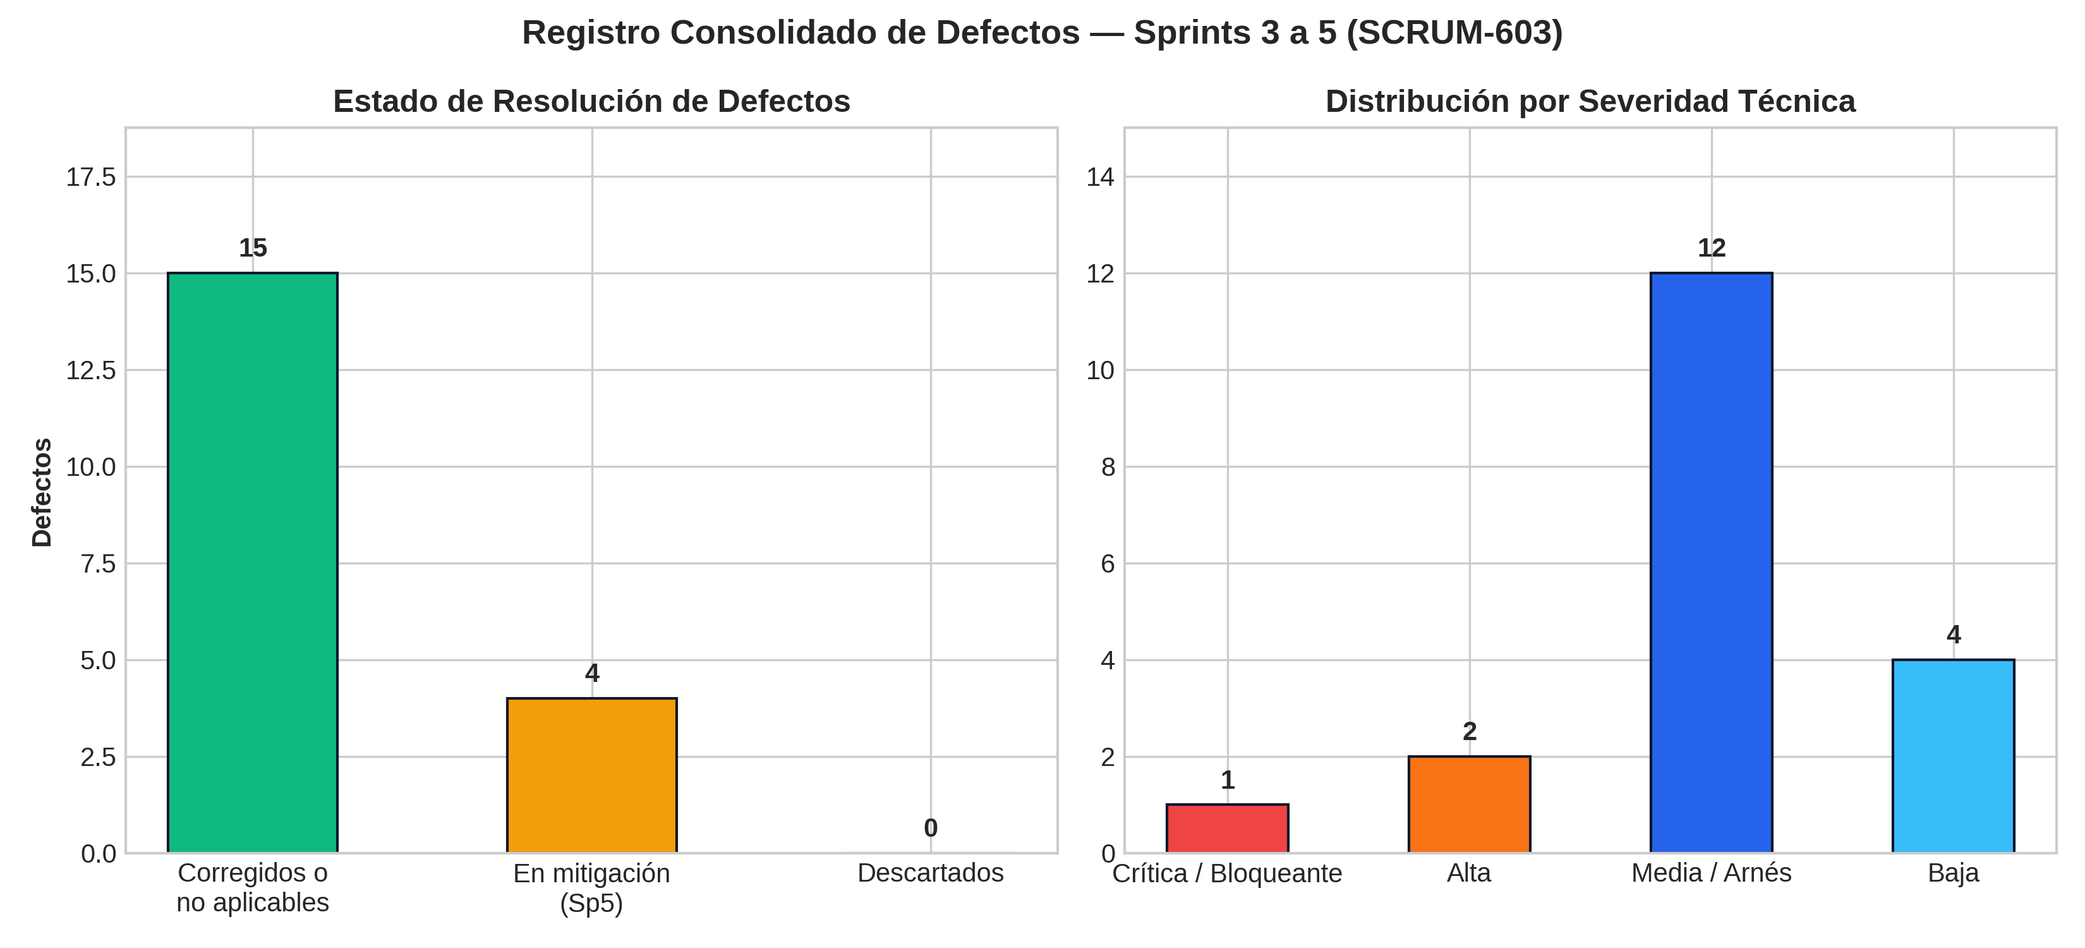
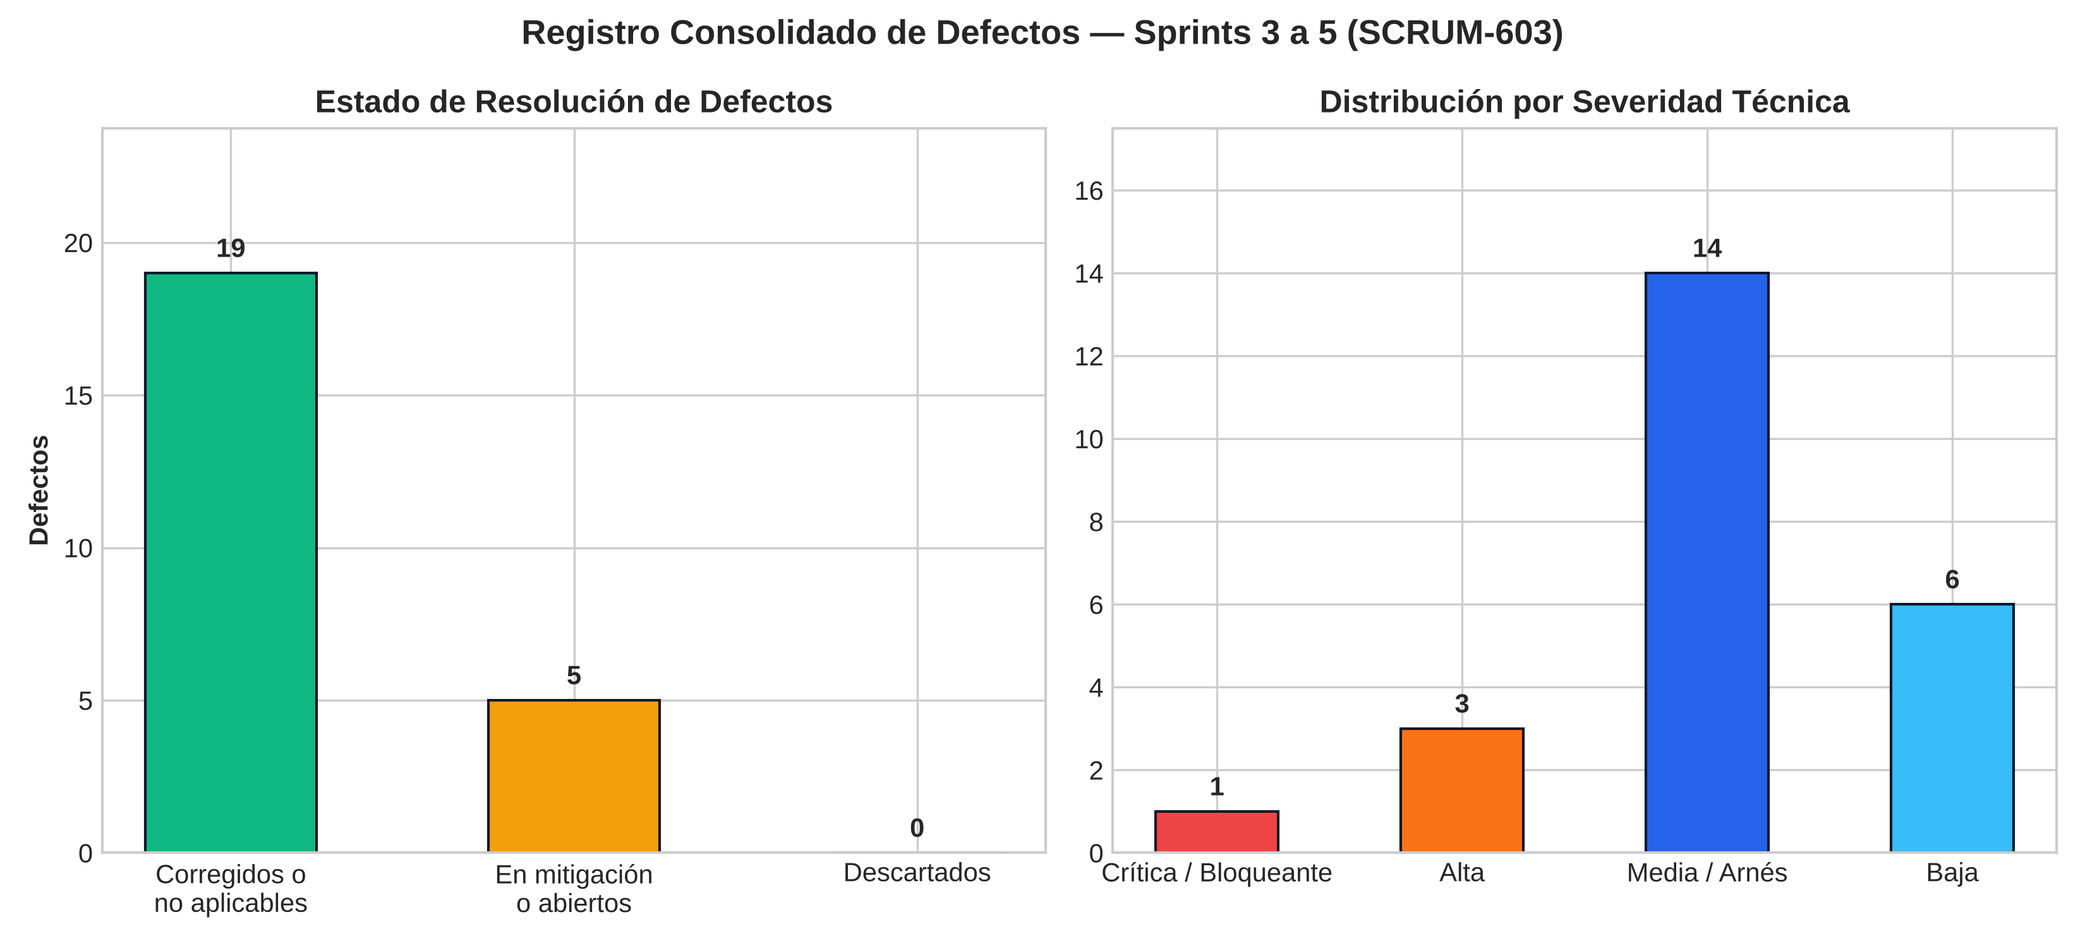
docs(qa): registro de defectos completo con los hallazgos del Sprint 5 (24 defectos)

diff --git a/scripts/generar_estadisticas_qa.py b/scripts/generar_estadisticas_qa.py
@@ -456,11 +456,11 @@ def generate_charts(ci_data, e2e_data, sec_data, defects, cov_map):
     # GRÁFICA 3: Defectos por Estado y Severidad
     corr = sum(1 for d in defects if any(k in d['estado'] for k in ['Corregido', 'Resuelto', 'Verificado']))
     no_aplica = sum(1 for d in defects if 'No aplica' in d['estado'])
-    pend = sum(1 for d in defects if any(k in d['estado'] for k in ['Pendiente', 'En corrección', 'En mitigación']))
+    pend = sum(1 for d in defects if any(k in d['estado'] for k in ['Pendiente', 'En corrección', 'En mitigación', 'Abierto']))
     desc = sum(1 for d in defects if any(k in d['estado'] for k in ['Descartado', 'Inválido']))
 
     fig, (ax1, ax2) = plt.subplots(1, 2, figsize=(11, 5))
-    states = ['Corregidos o\nno aplicables', 'En mitigación\n(Sp5)', 'Descartados']
+    states = ['Corregidos o\nno aplicables', 'En mitigación\no abiertos', 'Descartados']
     s_counts = [corr + no_aplica, pend, desc]
     s_colors = [success, warning, '#94A3B8']
 
@@ -542,8 +542,8 @@ def generate_markdown(ci_data, e2e_data, sec_data, k6_data, defects, cov_map):
     md = []
     md.append("# Cuadro de Mando de Estadísticas de Pruebas — Sprint 5 (SCRUM-604)\n")
     md.append("**Código del Documento:** `MET-QA-SP5-2026-11-02`  ")
-    md.append("**Versión:** `2.3 (indicadores desde las fuentes únicas, SCRUM-701 y SCRUM-695)`  ")
-    md.append("**Fecha de Generación:** 2 de noviembre de 2026 (versión 2.3: 12 de noviembre de 2026)  ")
+    md.append("**Versión:** `2.4 (registro de defectos completo: 24)`  ")
+    md.append("**Fecha de Generación:** 2 de noviembre de 2026 (versión 2.3: 12 de noviembre de 2026; versión 2.4: 13 de noviembre de 2026)  ")
     md.append("**Responsable:** Katherine Bravo (`ka.bravo@javeriana.edu.co`) — QA Lead  ")
     md.append("**Trazabilidad Jira:** Tarea `SCRUM-604` | Requisito RNF-08 | Documento de Pruebas `TD.md` V3.0  ")
     md.append("**Principio Metodológico:** Toda cifra reportada proviene directamente de archivos de resultados de CI (.trx/surefire), evidencias Newman en QA, resúmenes JSON de k6 y la Matriz de Avance UAT en Excel. Cero cifras escritas a mano.\n")
@@ -615,14 +615,17 @@ def generate_markdown(ci_data, e2e_data, sec_data, k6_data, defects, cov_map):
     md.append("## 4. Registro Consolidado de Defectos (SCRUM-603)\n")
     corr = sum(1 for d in defects if any(k in d['estado'] for k in ['Corregido', 'Resuelto', 'Verificado']))
     no_aplica = sum(1 for d in defects if 'No aplica' in d['estado'])
-    pend = sum(1 for d in defects if any(k in d['estado'] for k in ['Pendiente', 'En corrección', 'En mitigación']))
+    pend = sum(1 for d in defects if any(k in d['estado'] for k in ['Pendiente', 'En corrección', 'En mitigación', 'Abierto']))
     desc = sum(1 for d in defects if any(k in d['estado'] for k in ['Descartado', 'Inválido']))
     tot_def = len(defects)
 
     md.append(f"* **Total de Defectos Registrados:** **{tot_def} anomalías**.")
     md.append(f"* **Defectos Corregidos o No aplicables:** **{corr + no_aplica} ({(corr + no_aplica)/tot_def*100:.1f}%)** ({corr} corregidos y verificados + {no_aplica} no aplica a producción: DEF-S4-03).")
     md.append(f"* **Defectos Descartados / Retractados:** **{desc} ({desc/tot_def*100:.1f}%)**.")
-    md.append(f"* **Defectos en Mitigación en Sprint 5:** **{pend} ({pend/tot_def*100:.1f}%)** (ninguno bloqueante: DEF-S5-01 a DEF-S5-04).")
+    abiertos = [d['id'] for d in defects if 'Abierto' in d['estado']]
+    mitig = pend - len(abiertos)
+    det = f"{mitig} en mitigación: DEF-S5-01 a DEF-S5-04" + (f"; {len(abiertos)} abierto: {', '.join(abiertos)}" if abiertos else "")
+    md.append(f"* **Defectos en Mitigación o Abiertos:** **{pend} ({pend/tot_def*100:.1f}%)** (ninguno bloqueante; {det}).")
     md.append(f"* **Defectos Críticos o Bloqueantes Abiertos:** **0 (0.0%)**.\n")
     md.append("Ver detalle exhaustivo en: [`registro-defectos-sprint4-sprint5.md`](registro-defectos-sprint4-sprint5.md) y en la hoja `Defectos` de la Matriz UAT Excel.\n")
     md.append("---\n")

diff --git a/docs/testing/informe-pruebas-sprint5.md b/docs/testing/informe-pruebas-sprint5.md
@@ -1,8 +1,8 @@
 # Informe Consolidado de Pruebas — Sprint 5 (SCRUM-524 / SCRUM-528)
 
 **Código del Documento:** `INF-QA-SP5-2026-11-04`  
-**Versión:** `1.3 (cifras conciliadas con las fuentes únicas, SCRUM-701)`  
-**Fecha de Emisión:** 4 de noviembre de 2026 (versiones 1.1 y 1.2: 5 de noviembre de 2026; versión 1.3: 12 de noviembre de 2026)  
+**Versión:** `1.4 (registro de defectos completo: 24)`  
+**Fecha de Emisión:** 4 de noviembre de 2026 (versiones 1.1 y 1.2: 5 de noviembre de 2026; versión 1.3: 12 de noviembre de 2026; versión 1.4: 13 de noviembre de 2026)  
 **Responsable:** Katherine Bravo (`ka.bravo@javeriana.edu.co`) — QA Lead  
 **Trazabilidad Jira:** Historia Padre `SCRUM-524` | Subtareas `SCRUM-525`, `SCRUM-526`, `SCRUM-527`, `SCRUM-528`  
 **Referencias:** SRS V5.11 / SAD V4 / DD V5.19 / TD V3.3 / ADR-015 / ADR-022 / ADR-023 / RNF-08  
@@ -37,7 +37,7 @@
 - **PCI-DSS:** 4 corridas en el sprint, cada una con 5000 líneas de Loki revisadas y 0 hallazgos (SCRUM-527).
 - **k6, 5 de noviembre (noche del 4 en Colombia):** con 50 usuarios, crear solicitud p95 de 88 ms y catálogo p95 de 32 ms, con 0,01 % de peticiones fallidas. Con 150 usuarios, 0 errores 5xx y p95 de 1.183 ms, con 0,03 % de peticiones fallidas. Con esta corrida no queda ninguna excepción al RNF-08 vigente (SCRUM-526).
 - **ZAP:** el escaneo base terminó con 0 FAIL en todas las corridas del sprint. Las 4 advertencias son de cabeceras en QA y están conocidas (DEF-S4-03).
-- **Defectos:** 19 registrados entre los Sprints 3 y 5 (14 corregidos, 1 no aplica a producción, 4 en mitigación); 0 bloqueantes abiertos. En este sprint se encontró y se corrigió además el defecto del puntaje como texto en ServiceRequest (SCRUM-87).
+- **Defectos:** 24 registrados entre los Sprints 3 y 5 (18 corregidos, 1 no aplica a producción, 4 en mitigación y 1 abierto de severidad Baja); 0 bloqueantes abiertos. Incluye los hallazgos del Sprint 5 que estaban fuera del registro: el puntaje como texto en ServiceRequest (SCRUM-87), el apagado de QuoteExpirer y DEF-INT-01 a DEF-INT-03.
 
 ### 1.2 Cuadro de Mando de Compuertas
 
@@ -78,7 +78,7 @@ Corte del 12 de noviembre de 2026. Los indicadores funcionales salen de [`indica
 ![Gráfica 2: Tasa de éxito de las pruebas](img/grafica-2-torta-exito-pruebas.png)
 
 #### Gráfica 3: Estado y severidad de los defectos
-19 defectos registrados entre los Sprints 3 y 5: 15 corregidos o no aplicables, 4 en mitigación y 0 bloqueantes abiertos.
+24 defectos registrados entre los Sprints 3 y 5: 19 corregidos o no aplicables, 4 en mitigación, 1 abierto (Baja) y 0 bloqueantes abiertos.
 
 ![Gráfica 3: Estado y severidad de los defectos](img/grafica-3-barras-defectos.png)
 
@@ -267,19 +267,21 @@ Fuentes: hoja `Defectos` de [`docs/testing/Matriz_UAT_Avance_QuickPatch.xlsx`](M
 |---|---|---|
 | Corregidos y verificados (Sprint 3) | 4 | BUG-001 a BUG-004 |
 | Corregidos y verificados (Sprint 4) | 10 | BUG-SP4-001 a BUG-SP4-009, DEF-S4-02 |
+| Corregidos y verificados (Sprint 5) | 4 | HAL-S5-01, HAL-S5-02, DEF-INT-01 y DEF-INT-02 |
 | No aplica a producción | 1 | DEF-S4-03 (HSTS y nosniff solo en QA) |
 | En mitigación, no bloqueantes | 4 | DEF-S5-01 a DEF-S5-04 |
-| **Total** | **19** | 0 bloqueantes abiertos (15 de ellos en el registro de los Sprints 4 y 5) |
+| Abierto, no bloqueante | 1 | DEF-INT-03 (Baja: perfil de gama baja, depende de SCRUM-667) |
+| **Total** | **24** | 0 bloqueantes abiertos (20 de ellos en el registro de los Sprints 4 y 5) |
 
-### 4.2 Hallazgos del Sprint 5 fuera del registro
+### 4.2 Hallazgos del Sprint 5 que se sumaron al registro
 
 | Hallazgo | Dónde se encontró | Estado |
 |---|---|---|
-| ServiceRequest aceptaba `{"score":"5"}` (texto) con 201, aunque el contrato pide `integer` | Colección `scrum-32-calificacion` contra QA, 4 de noviembre (SCRUM-87) | Corregido en quickpatch-service-request#39 (`release/0.11.2`). La corrida quedó sin fallos |
-| ServiceRequest se apagaba por un `TaskCanceledException` sin capturar en QuoteExpirer | Primer intento del humo en producción, 4 de noviembre (SCRUM-523) | Corregido en service-request 0.11.1. Lectura repetida 14/14 |
-| DEF-INT-01 (faltaba la pantalla de calificación), DEF-INT-02 (arnés de accesibilidad) y DEF-INT-03 (perfil de gama baja) | SCRUM-569 | DEF-INT-01 cerrado con SCRUM-86; DEF-INT-02 y DEF-INT-03 abiertos. Registrados en el PR #254 |
+| HAL-S5-01: ServiceRequest aceptaba `{"score":"5"}` (texto) con 201, aunque el contrato pide `integer` | Colección `scrum-32-calificacion` contra QA, 4 de noviembre (SCRUM-87) | Corregido en quickpatch-service-request#39 (`release/0.11.2`). La corrida quedó sin fallos |
+| HAL-S5-02: ServiceRequest se apagaba por un `TaskCanceledException` sin capturar en QuoteExpirer | Primer intento del humo en producción, 4 de noviembre (SCRUM-523) | Corregido en service-request 0.11.1. Lectura repetida 14/14 |
+| DEF-INT-01 (faltaba la pantalla de calificación), DEF-INT-02 (arnés de accesibilidad) y DEF-INT-03 (perfil de gama baja) | SCRUM-569 | DEF-INT-01 cerrado con SCRUM-86 y DEF-INT-02 con quickpatch-mobile#58. DEF-INT-03 sigue abierto |
 
-Estos hallazgos se suman al registro de defectos cuando se fusione el PR #254.
+Desde el 13 de noviembre están en `registro-defectos-sprint4-sprint5.md` (v2.1) y en la hoja `Defectos` de `Matriz_UAT_Avance_QuickPatch.xlsx`, igual que en la hoja `Defectos` del Informe UAT oficial de la PO.
 
 ### 4.3 Defectos en mitigación
 
@@ -299,7 +301,7 @@ Estos hallazgos se suman al registro de defectos cuando se fusione el PR #254.
 3. **SCRUM-608:** hecho. La Product Owner aceptó el incremento en el Informe UAT oficial del 5 de noviembre, y el acta quedó en `develop` con el PR #272. AC4-E3, AC4-E4 y AC4-E9 siguen sin medir con personas; se miden en la UAT de cierre (SCRUM-658).
 4. **SCRUM-569:** con el PR #254, la matriz de 52 escenarios queda alineada con esta evaluación (AC4-E2, AC4-E5, AC4-E6 y AC4-E9), y el porcentaje de escenarios pasa de 49.04% a 51.92%.
 5. **SCRUM-566 y SCRUM-664:** la matriz de 52 escenarios es la fuente única de los escenarios. Al 12 de noviembre da 75.00% (35 Cumple, 8 Parcial, 3 No cumple y 6 No medido), y `scripts/calcular_indicadores_qa.py` la recalcula.
-6. **Registro de defectos:** sumar al registro y a la hoja `Defectos` el hallazgo del puntaje como texto (quickpatch-service-request#39), el apagado de QuoteExpirer y los DEF-INT del PR #254.
+6. **Registro de defectos:** hecho el 13 de noviembre. El registro y la hoja `Defectos` suman HAL-S5-01, HAL-S5-02 y DEF-INT-01 a DEF-INT-03, y el total queda en 24.
 
 ---
 

diff --git a/docs/testing/registro-defectos-sprint4-sprint5.md b/docs/testing/registro-defectos-sprint4-sprint5.md
@@ -1,8 +1,8 @@
 # Registro y Clasificación Consolidada de Defectos — Sprints 4 y 5 (SCRUM-603)
 
 **Código del Documento:** `DEF-QA-SP4-SP5-2026-10-25`  
-**Versión:** `2.0 Final`  
-**Fecha:** 25 de octubre de 2026  
+**Versión:** `2.1`  
+**Fecha:** 25 de octubre de 2026 (v2.1: 13 de noviembre de 2026)  
 **Responsable:** Katherine Bravo (`ka.bravo@javeriana.edu.co`) — QA Lead  
 **Trazabilidad Jira:** Tarea `SCRUM-603` | RNF-08 (Aseguramiento de Calidad) | Documento de Pruebas `TD.md` V3.0  
 **Normas Aplicadas:** IEEE 1044 (Classification for Software Anomalies) / ISO/IEC 25010:2023 / RFC 9457  
@@ -42,6 +42,11 @@ La siguiente tabla consolida los defectos identificados en los ciclos de prueba 
 | **DEF-S5-02** | Baja | `quickpatch-payments` | Facturación y Comprobante PDF (`scrum-495`) | **En mitigación** | Sprint 5 | Desglose formal de impuestos en PDF de liquidación (mejora técnica post-MVP) |
 | **DEF-S5-03** | Media | `quickpatch-mobile` | Pruebas UAT Emulador Android (GPS Mock) | **En mitigación** | Sprint 5 | Inyección de coordenadas geográficas en emulador Android (arnés de prueba UAT) |
 | **DEF-S5-04** | Baja | `quickpatch-web` | Interacción UI Web Admin (Paginación) | **En mitigación** | Sprint 5 | Ajuste de paginación reactiva en listado de técnicos (mejora UI post-MVP) |
+| **HAL-S5-01** | Media (propuesta) | `quickpatch-service-request` | E2E QA (`scrum-32-calificacion`, 4-nov): aceptaba `{"score":"5"}` (texto) con 201, aunque el contrato pide `integer` | **Corregido** | Sprint 5 | quickpatch-service-request#39 (`release/0.11.2`) / Corrida: `tests/e2e/evidencias/scrum-32-calificacion-qa-2026-11-04.txt` |
+| **HAL-S5-02** | Alta (propuesta) | `quickpatch-service-request` | Humo en producción (SCRUM-523, 4-nov): el servicio se apagaba por un `TaskCanceledException` sin capturar en `QuoteExpirer` | **Corregido** | Sprint 5 | service-request 0.11.1 / Corrida: `tests/e2e/evidencias/humo-produccion-lectura-2026-11-04.txt` (14/14) |
+| **DEF-INT-01** | Media | `quickpatch-mobile` | Evaluación de capacidad de interacción (SCRUM-569, AC4-E6): faltaba la pantalla móvil de calificación | **Corregido** | Sprint 5 | SCRUM-86, APK `v0.5.4-qa` / [`capacidad-interaccion-scrum-569.md`](capacidad-interaccion-scrum-569.md) §5 |
+| **DEF-INT-02** | Baja | `quickpatch-mobile` (pruebas) | Evaluación de capacidad de interacción (SCRUM-569, AC4-E7): faltaba el arnés automatizado de accesibilidad en `flutter test` | **Corregido** | Sprint 5 | quickpatch-mobile#58 (pruebas `meetsGuideline`, CI en verde; AC4-E7 Cumple desde el 5-nov en [`matriz-escenarios-calidad-52.md`](matriz-escenarios-calidad-52.md)) |
+| **DEF-INT-03** | Baja | QA (infraestructura) | Evaluación de capacidad de interacción (SCRUM-569, AC4-E8): no hay perfil definido de dispositivo de gama baja | **Abierto** | Sprint 6 (SCRUM-667, Frontend) | [`capacidad-interaccion-scrum-569.md`](capacidad-interaccion-scrum-569.md) §5; AC4-E8 sigue No medido |
 
 ---
 
@@ -49,6 +54,21 @@ La siguiente tabla consolida los defectos identificados en los ciclos de prueba 
 
 | Estado del Defecto | Cantidad | Porcentaje |
 |---|:---:|:---:|
+| **Solucionados / Verificados / No aplica a producción** | 14 | 70.0% |
+| **Descartados / Inválidos (Retractados)** | 1 | 5.0% |
+| **En mitigación (no bloqueantes)** | 4 | 20.0% |
+| **Abiertos (no bloqueantes)** | 1 | 5.0% |
+| **Total de Defectos Registrados (S4 y S5)** | **20** | **100.0%** |
+
+> **Cambio de la versión 2.1 (13-nov-2026):** se suman cinco hallazgos del Sprint 5 que estaban fuera del registro (sección 4.2 del informe del Sprint 5 y hoja `Defectos` del Informe UAT oficial de la PO): HAL-S5-01, HAL-S5-02 y DEF-INT-01 a DEF-INT-03. DEF-INT-02 queda corregido con quickpatch-mobile#58. Con los 4 defectos del Sprint 3 (`registro-defectos-sprint3.md`), el total del proyecto pasa de 19 a **24**, igual que la hoja `Defectos` de la PO. La severidad de HAL-S5-01 y HAL-S5-02 es la propuesta en esa hoja.
+
+### Distribución por Severidad
+* **Bloqueantes (S1):** 0 detectados (0.0%).
+* **Alta (S2):** 2 registradas y corregidas (DEF-S4-02 cancelación k6; HAL-S5-02 apagado de `QuoteExpirer`).
+* **Media (S3) / Falla de Arnés:** 12 registrados (6 corregidos en producto/suite, 2 fallas de arnés comprobadas con evidencia, 1 descartado, 1 no aplica a producción: DEF-S4-03, 2 en mitigación: DEF-S5-01 y DEF-S5-03), más HAL-S5-01 y DEF-INT-01, corregidos.
+* **Baja (S4):** 6 registrados (2 corregidos en Sprint 4, 2 en mitigación: DEF-S5-02 y DEF-S5-04, DEF-INT-02 corregido y DEF-INT-03 abierto).
+
+---|:---:|:---:|
 | **Solucionados / Verificados / No aplica a producción** | 10 | 66.7% |
 | **Descartados / Inválidos (Retractados)** | 1 | 6.7% |
 | **En mitigación (Pendientes en Sprint 5)** | 4 | 26.6% |
@@ -92,4 +112,4 @@ La siguiente tabla consolida los defectos identificados en los ciclos de prueba 
 
 ## 5. Dictamen del Registro de Defectos
 
-El sistema no presenta defectos bloqueantes (S1) ni defectos de severidad alta (S2) abiertos. Los defectos identificados en el arnés de pruebas se encuentran debidamente justificados con sus commits y archivos de corrida correspondientes. Las anomalías del Sprint 5 se encuentran priorizadas para resolución en sus respectivas historias de usuario.
+El sistema no presenta defectos bloqueantes (S1) ni defectos de severidad alta (S2) abiertos. El único defecto abierto (DEF-INT-03, Baja) depende de que Frontend defina el dispositivo de referencia de gama baja (SCRUM-667). Los defectos identificados en el arnés de pruebas se encuentran debidamente justificados con sus commits y archivos de corrida correspondientes. Las anomalías del Sprint 5 se encuentran priorizadas para resolución en sus respectivas historias de usuario.

diff --git a/docs/testing/estadisticas-pruebas-sprint5.md b/docs/testing/estadisticas-pruebas-sprint5.md
@@ -1,8 +1,8 @@
 # Cuadro de Mando de Estadísticas de Pruebas — Sprint 5 (SCRUM-604)
 
 **Código del Documento:** `MET-QA-SP5-2026-11-02`  
-**Versión:** `2.3 (indicadores desde las fuentes únicas, SCRUM-701 y SCRUM-695)`  
-**Fecha de Generación:** 2 de noviembre de 2026 (versión 2.3: 12 de noviembre de 2026)  
+**Versión:** `2.4 (registro de defectos completo: 24)`  
+**Fecha de Generación:** 2 de noviembre de 2026 (versión 2.3: 12 de noviembre de 2026; versión 2.4: 13 de noviembre de 2026)  
 **Responsable:** Katherine Bravo (`ka.bravo@javeriana.edu.co`) — QA Lead  
 **Trazabilidad Jira:** Tarea `SCRUM-604` | Requisito RNF-08 | Documento de Pruebas `TD.md` V3.0  
 **Principio Metodológico:** Toda cifra reportada proviene directamente de archivos de resultados de CI (.trx/surefire), evidencias Newman en QA, resúmenes JSON de k6 y la Matriz de Avance UAT en Excel. Cero cifras escritas a mano.
@@ -92,10 +92,10 @@ Conforme a la directriz técnica de QA, las peticiones masivas de carga no se co
 
 ## 4. Registro Consolidado de Defectos (SCRUM-603)
 
-* **Total de Defectos Registrados:** **19 anomalías**.
-* **Defectos Corregidos o No aplicables:** **15 (78.9%)** (14 corregidos y verificados + 1 no aplica a producción: DEF-S4-03).
+* **Total de Defectos Registrados:** **24 anomalías**.
+* **Defectos Corregidos o No aplicables:** **19 (79.2%)** (18 corregidos y verificados + 1 no aplica a producción: DEF-S4-03).
 * **Defectos Descartados / Retractados:** **0 (0.0%)**.
-* **Defectos en Mitigación en Sprint 5:** **4 (21.1%)** (ninguno bloqueante: DEF-S5-01 a DEF-S5-04).
+* **Defectos en Mitigación o Abiertos:** **5 (20.8%)** (ninguno bloqueante; 4 en mitigación: DEF-S5-01 a DEF-S5-04; 1 abierto: DEF-INT-03).
 * **Defectos Críticos o Bloqueantes Abiertos:** **0 (0.0%)**.
 
 Ver detalle exhaustivo en: [`registro-defectos-sprint4-sprint5.md`](registro-defectos-sprint4-sprint5.md) y en la hoja `Defectos` de la Matriz UAT Excel.

diff --git a/docs/testing/capacidad-interaccion-scrum-569.md b/docs/testing/capacidad-interaccion-scrum-569.md
@@ -192,7 +192,7 @@ En cumplimiento de los criterios de aceptación de la tarea `SCRUM-569`, se regi
 | ID Defecto / Hallazgo | Severidad | Módulo / Componente | Escenario Impactado | Descripción Técnica | Estado / Acción en Jira |
 |:---:|:---:|---|:---:|---|:---:|
 | **DEF-INT-01** | Media | `quickpatch-mobile` | **AC4-E6** | **Ausencia de pantalla móvil de calificación de servicio (RF-12):** detectado en la revisión inicial. | **Cerrado:** la pantalla entró con `SCRUM-86` (Finalizado) y se publica en el APK `v0.5.4-qa`. |
-| **DEF-INT-02** | Baja | `quickpatch-mobile` (Test) | **AC4-E7** | **Falta de arnés automatizado de accesibilidad en Flutter test:** La suite de pruebas de widgets carece de aserciones de directrices de accesibilidad (`meetsGuideline`) y prueba automatizada con `textScaler: 2.0`. | Registrado como mejora técnica para el arnés de pruebas de Flutter en Sprint 5. |
+| **DEF-INT-02** | Baja | `quickpatch-mobile` (Test) | **AC4-E7** | **Falta de arnés automatizado de accesibilidad en Flutter test:** La suite de pruebas de widgets carece de aserciones de directrices de accesibilidad (`meetsGuideline`) y prueba automatizada con `textScaler: 2.0`. | **Cerrado:** las pruebas `meetsGuideline` entraron con quickpatch-mobile#58 (CI en verde) y AC4-E7 pasó a Cumple el 5-nov (`matriz-escenarios-calidad-52.md`). |
 | **DEF-INT-03** | Baja | `quickpatch-qa` (Infra) | **AC4-E8** | **Indefinición de dispositivo de referencia de gama baja:** No existe un perfil estandarizado en emulador Android con limitación de CPU y RAM para cronometrar formalmente el umbral de $< 3\text{ s}$ en hardware base. | Registrado para definición conjunta entre Frontend y QA. |
 
 ---

diff --git a/docs/testing/conciliacion-cifras-qa-2026-11-12.md b/docs/testing/conciliacion-cifras-qa-2026-11-12.md
@@ -54,7 +54,7 @@
 
 | # | Qué | Valor | Quién |
 |---|---|---|---|
-| 1 | Defectos: el informe y las estadísticas cuentan 19, y la hoja Defectos del Informe UAT de la PO cuenta 24 | Faltan HAL-S5-01, HAL-S5-02 y DEF-INT-01 a DEF-INT-03 en `registro-defectos-sprint4-sprint5.md` y en `Matriz_UAT_Avance_QuickPatch.xlsx`. DEF-INT-02 debería quedar Resuelto con quickpatch-mobile#58 | QA (Katherine), en un PR aparte |
+| 1 | Defectos: el informe y las estadísticas cuentan 19, y la hoja Defectos del Informe UAT de la PO cuenta 24 | Faltan HAL-S5-01, HAL-S5-02 y DEF-INT-01 a DEF-INT-03 en `registro-defectos-sprint4-sprint5.md` y en `Matriz_UAT_Avance_QuickPatch.xlsx`. DEF-INT-02 debería quedar Resuelto con quickpatch-mobile#58 | QA (Katherine). **Hecho el 13-nov:** registro v2.1 y hoja `Defectos` con 24 |
 | 2 | `cifras-canonicas.md` todavía dice «unidad por decidir (SCRUM-700)» y «la fuente única la cierra SCRUM-664» | Apuntar a `indicadores-funcionales.md` y a la matriz de 52: 33 RF, 33/33/33/33 y 75,00 % | Arquitectura (Juan Diego, SCRUM-691) |
 | 3 | `docs/governance/cierre-proyecto.md` y `presentacion-final-guion.md` esperan las cifras de SCRUM-700 y SCRUM-664 | 33/33/33/33, 92,50 % y 35/8/3/6 | Juan Diego (SCRUM-703 y SCRUM-706) |
 | 4 | Las gráficas PNG de `docs/testing/img/` no se regeneran en este PR | Solo las tocan las fuentes del sistema; las cifras no cambian | — |
